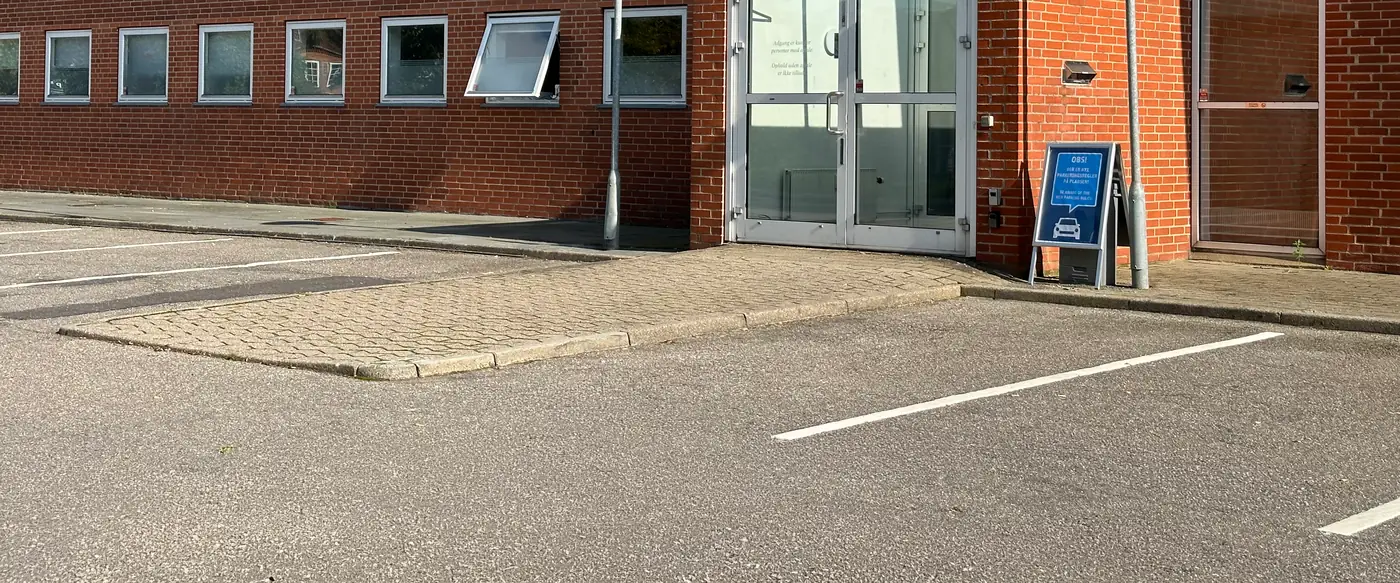
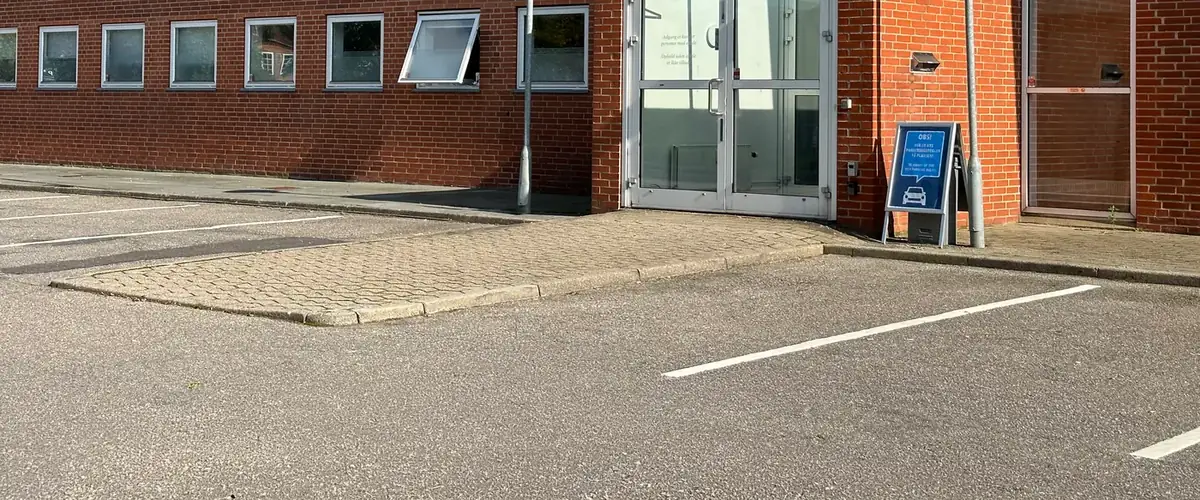
perf: klinikssider - kort indlaeses foerst i syne, gzip af JS, lettere billeder
- Google Maps (ca. 480 KB tredjeparts-JavaScript, lange opgaver) blev
  hentet ved sideindlaesning paa mobil. Kortet indlaeses nu foerst, naar
  det kommer i syne (IntersectionObserver); pladsen er reserveret med
  baggrund og min-height, saa intet hopper.
- .htaccess: komprimering ogsaa for text/javascript. app.js blev sendt
  ukomprimeret (200 KB) - gaelder hele sitet.
- Parkeringsbilleder: Vejle 199 -> 135 KB, Esbjerg 118 -> 55 KB.
  Video-plakat 68 -> 49 KB.

Claude-Session: https://claude.ai/code/session_01BBHU5F4iZ3Ukrwd2uAP67y

diff --git a/src/components/views/ClinicEsbjerg.vue b/src/components/views/ClinicEsbjerg.vue
@@ -54,8 +54,8 @@
         </div>
       </article>
 
-      <aside class="clinic-map" aria-label="Kort over DK Skønhedsklinik Esbjerg">
-        <iframe :src="mapEmbedSrc" width="100%" height="100%" style="border:0;" allowfullscreen=""
+      <aside ref="kortRef" class="clinic-map" aria-label="Kort over DK Skønhedsklinik Esbjerg">
+        <iframe v-if="visKort" :src="mapEmbedSrc" width="100%" height="100%" style="border:0;" allowfullscreen=""
           loading="lazy" referrerpolicy="no-referrer-when-downgrade"
           title="Kort over klinikken"></iframe>
       </aside>
@@ -181,6 +181,20 @@
 <script setup>
 import { ref, onMounted, onBeforeUnmount } from 'vue'
 import { useHead } from '@unhead/vue'
+
+/* Google Maps henter ca. 480 KB JavaScript. Kortet indlaeses foerst, naar
+   det kommer ind i skaermbilledet (ikke allerede ved sideindlaesning, som
+   loading="lazy" goer paa mobil). */
+const kortRef = ref(null)
+const visKort = ref(false)
+onMounted(() => {
+  const el = kortRef.value
+  if (!el || !('IntersectionObserver' in window)) { visKort.value = true; return }
+  const io = new IntersectionObserver((e) => {
+    if (e.some((x) => x.isIntersecting)) { visKort.value = true; io.disconnect() }
+  }, { rootMargin: '150px' })
+  io.observe(el)
+})
 import FaqList from '@/components/FaqList.vue'
 import OplandKort from '@/components/OplandKort.vue'
 import imgArash from '@/assets/klinik/arash-portraet.webp'
@@ -930,5 +944,15 @@ strong {
     height: 320px !important;
     min-height: 0 !important;
   }
+}
+
+/* Pladsen til kortet er reserveret, foer kortet indlaeses (ingen CLS) */
+.clinic-map {
+  background: #e9eef5;
+  min-height: 420px !important;
+}
+
+@media (max-width: 900px) {
+  .clinic-map { min-height: 320px !important; }
 }
 </style>

diff --git a/src/components/views/ClinicVejle.vue b/src/components/views/ClinicVejle.vue
@@ -54,8 +54,8 @@
         </div>
       </article>
 
-      <aside class="clinic-map" aria-label="Kort over DK Skønhedsklinik Vejle">
-        <iframe :src="mapEmbedSrc" width="100%" height="100%" style="border:0;" allowfullscreen=""
+      <aside ref="kortRef" class="clinic-map" aria-label="Kort over DK Skønhedsklinik Vejle">
+        <iframe v-if="visKort" :src="mapEmbedSrc" width="100%" height="100%" style="border:0;" allowfullscreen=""
           loading="lazy" referrerpolicy="no-referrer-when-downgrade"
           title="Kort over klinikken"></iframe>
       </aside>
@@ -197,6 +197,20 @@
 <script setup>
 import { ref, onMounted, onBeforeUnmount } from 'vue'
 import { useHead } from '@unhead/vue'
+
+/* Google Maps henter ca. 480 KB JavaScript. Kortet indlaeses foerst, naar
+   det kommer ind i skaermbilledet (ikke allerede ved sideindlaesning, som
+   loading="lazy" goer paa mobil). */
+const kortRef = ref(null)
+const visKort = ref(false)
+onMounted(() => {
+  const el = kortRef.value
+  if (!el || !('IntersectionObserver' in window)) { visKort.value = true; return }
+  const io = new IntersectionObserver((e) => {
+    if (e.some((x) => x.isIntersecting)) { visKort.value = true; io.disconnect() }
+  }, { rootMargin: '150px' })
+  io.observe(el)
+})
 import FaqList from '@/components/FaqList.vue'
 import OplandKort from '@/components/OplandKort.vue'
 import imgArash from '@/assets/klinik/arash-portraet.webp'
@@ -939,5 +953,15 @@ strong {
     height: 320px !important;
     min-height: 0 !important;
   }
+}
+
+/* Pladsen til kortet er reserveret, foer kortet indlaeses (ingen CLS) */
+.clinic-map {
+  background: #e9eef5;
+  min-height: 420px !important;
+}
+
+@media (max-width: 900px) {
+  .clinic-map { min-height: 320px !important; }
 }
 </style>
